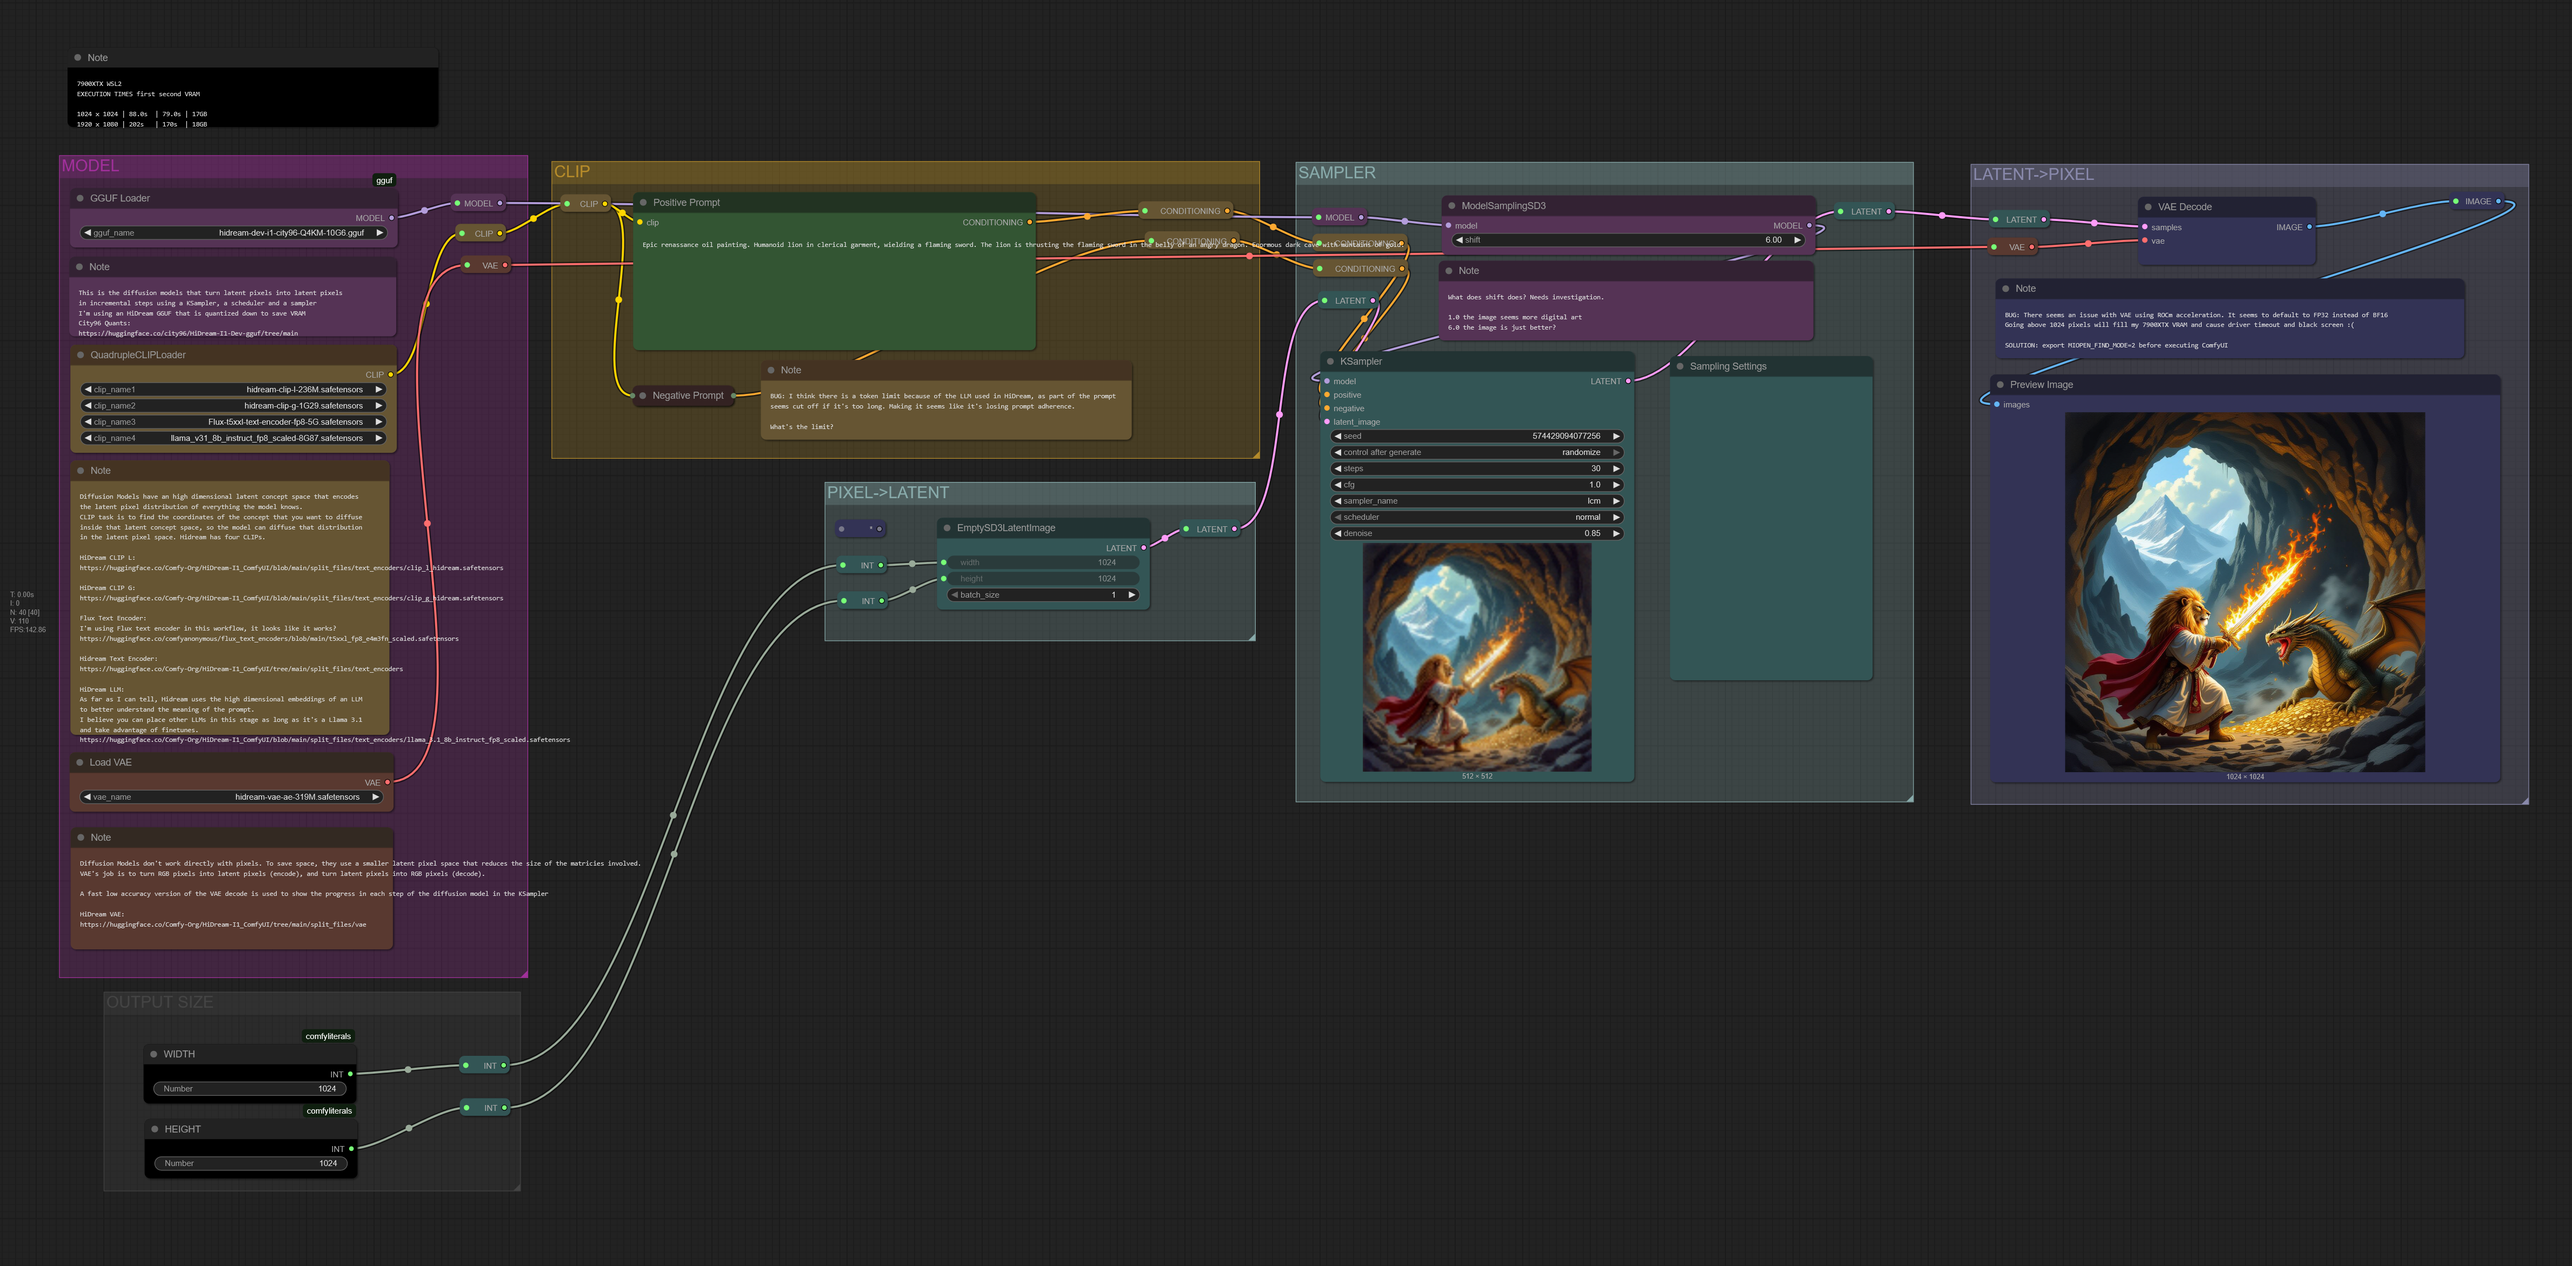
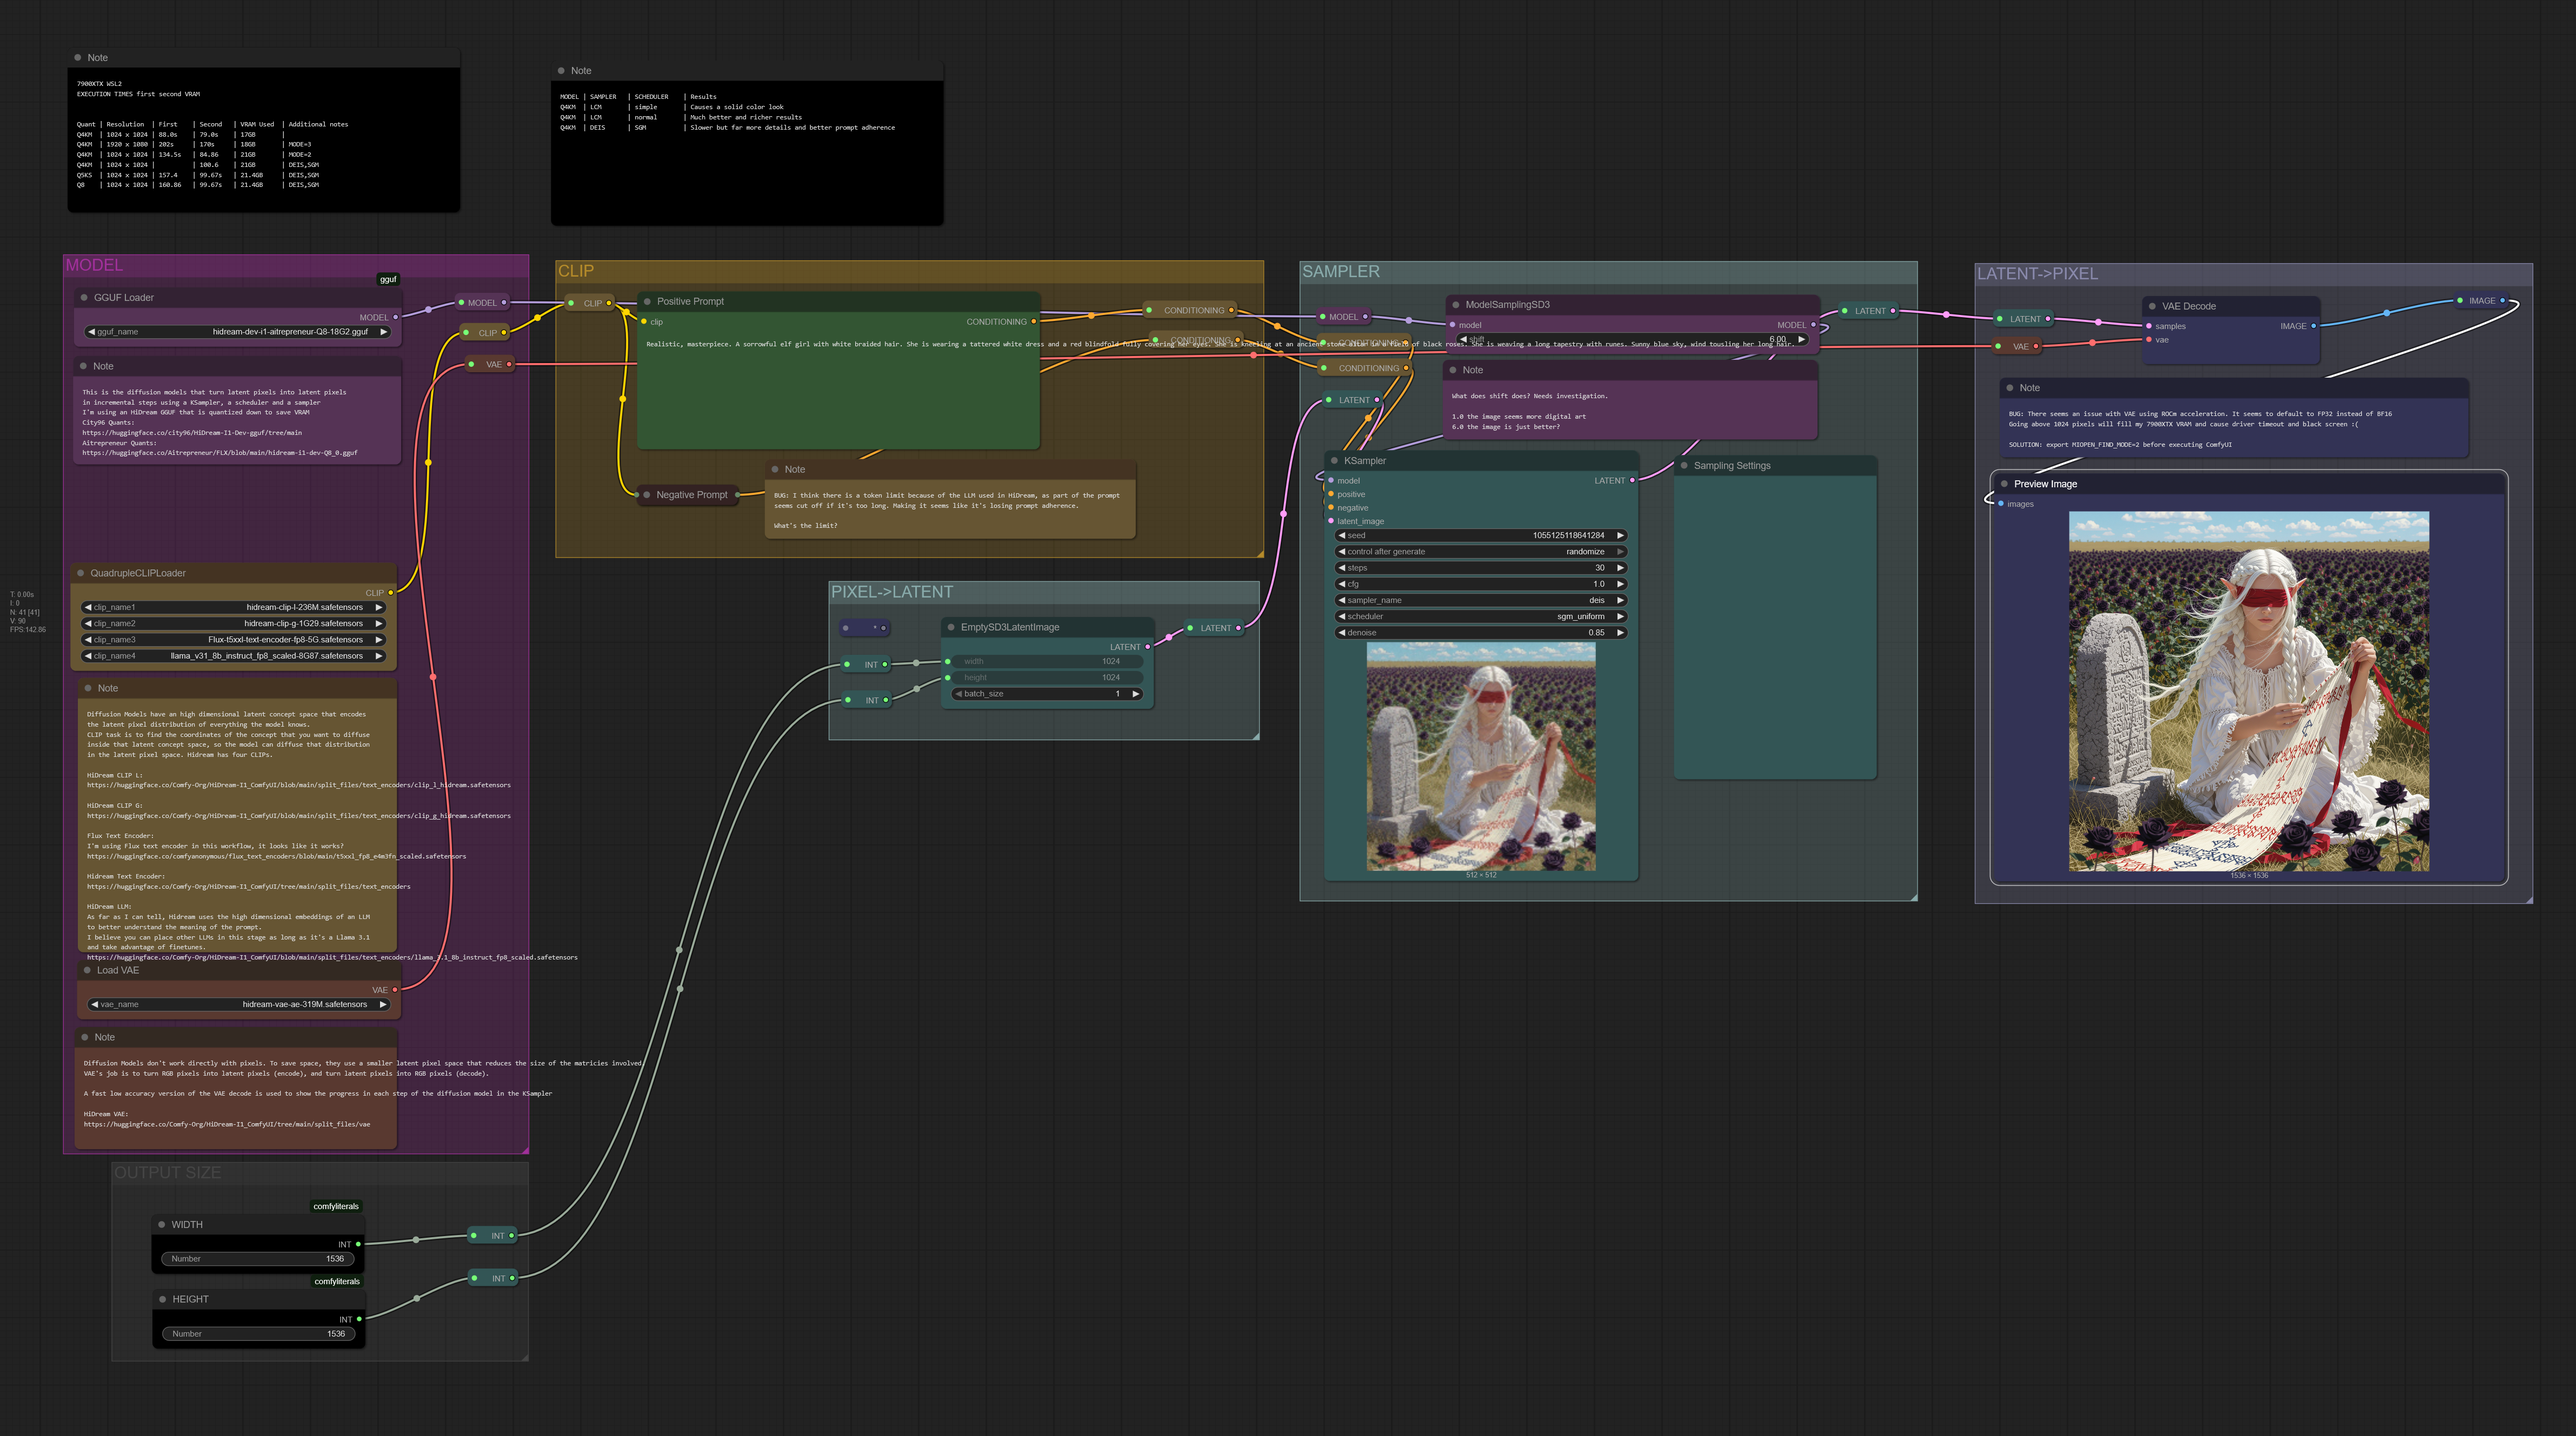
HiDream settings

Changed region(s): [[0.0, 0.0312, 0.9954, 0.9659], [0.2488, 0.592, 0.2799, 0.6854]]

diff --git a/README.md b/README.md
@@ -453,6 +453,18 @@ HiDream seems to have superior prompt adherence
 ![Workflow](/workflows/txt2img-hidream.png)
 
 <details>
+<summary>Hidream Settings</summary>
+I tried Q4, Q5 and Q8 quants and all work on my 7900XTX
+LCM/normal works
+DEIS/SGM is slower but has much better results
+LCM/simple, Euler and other combination give unimpressive details
+
+For generation times I'm around 160s for first generation and 100s for second generation using around 19GB of VRAM
+
+Having fixed the VAE issue, I can now directly generate 2048px images directly! Perhaps higher.
+</details>
+
+<details>
 <summary>Hidream Model Download Links</summary>
 
 [HiDream Dev Q4](https://huggingface.co/city96/HiDream-I1-Dev-gguf/tree/main)
